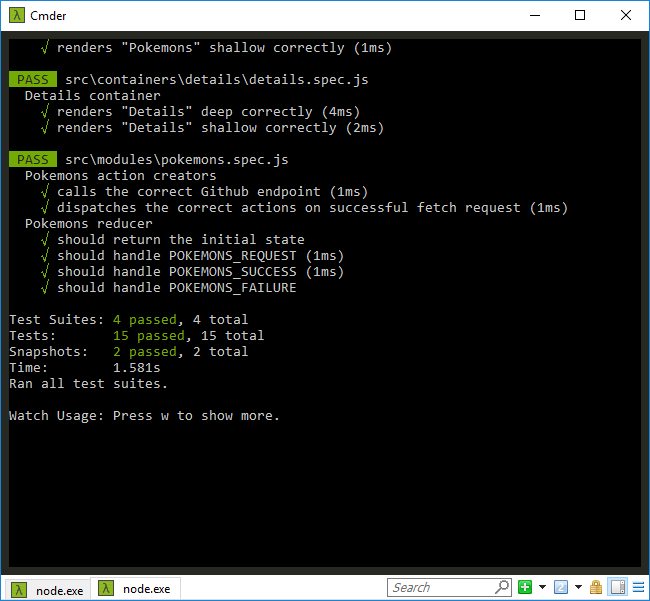
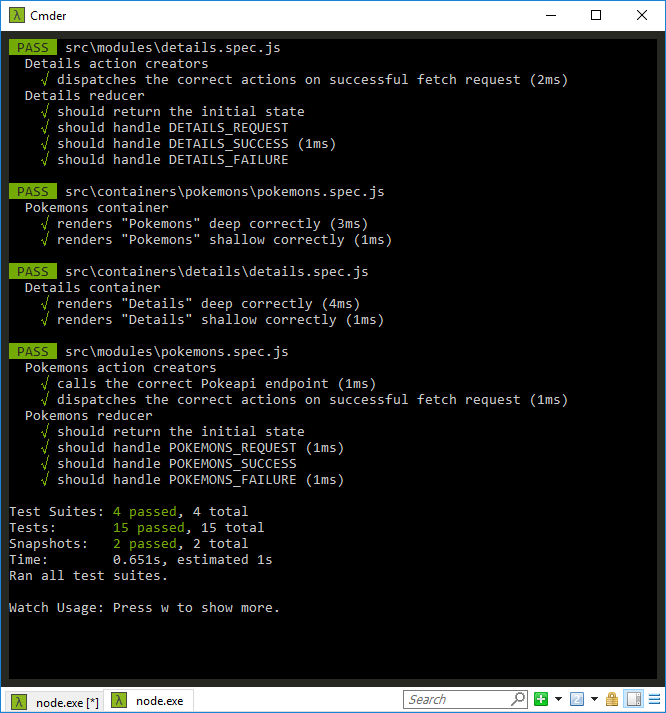
Cleanup

Changed region(s): [[0.0, 0.0, 1.0, 0.8686], [0.0, 0.9285, 1.0, 1.0]]

diff --git a/src/modules/pokemons.spec.js b/src/modules/pokemons.spec.js
@@ -13,7 +13,7 @@ describe('Pokemons action creators', () => {
     fetch.resetMocks();
   });
 
-  it('calls the correct Github endpoint', () => {
+  it('calls the correct Pokeapi endpoint', () => {
     expect(pokeapi.URL).toEqual('https://pokeapi.co/api/v2/pokemon')
   })
 

diff --git a/src/containers/pokemons/index.js b/src/containers/pokemons/index.js
@@ -80,7 +80,7 @@ export class Pokemons extends Component {
 };
 
 Pokemons.defaultProps = {
-  getPokemons: function(){}  
+  getPokemons: function(){}
 };
 
 const mapStateToProps = state => ({
